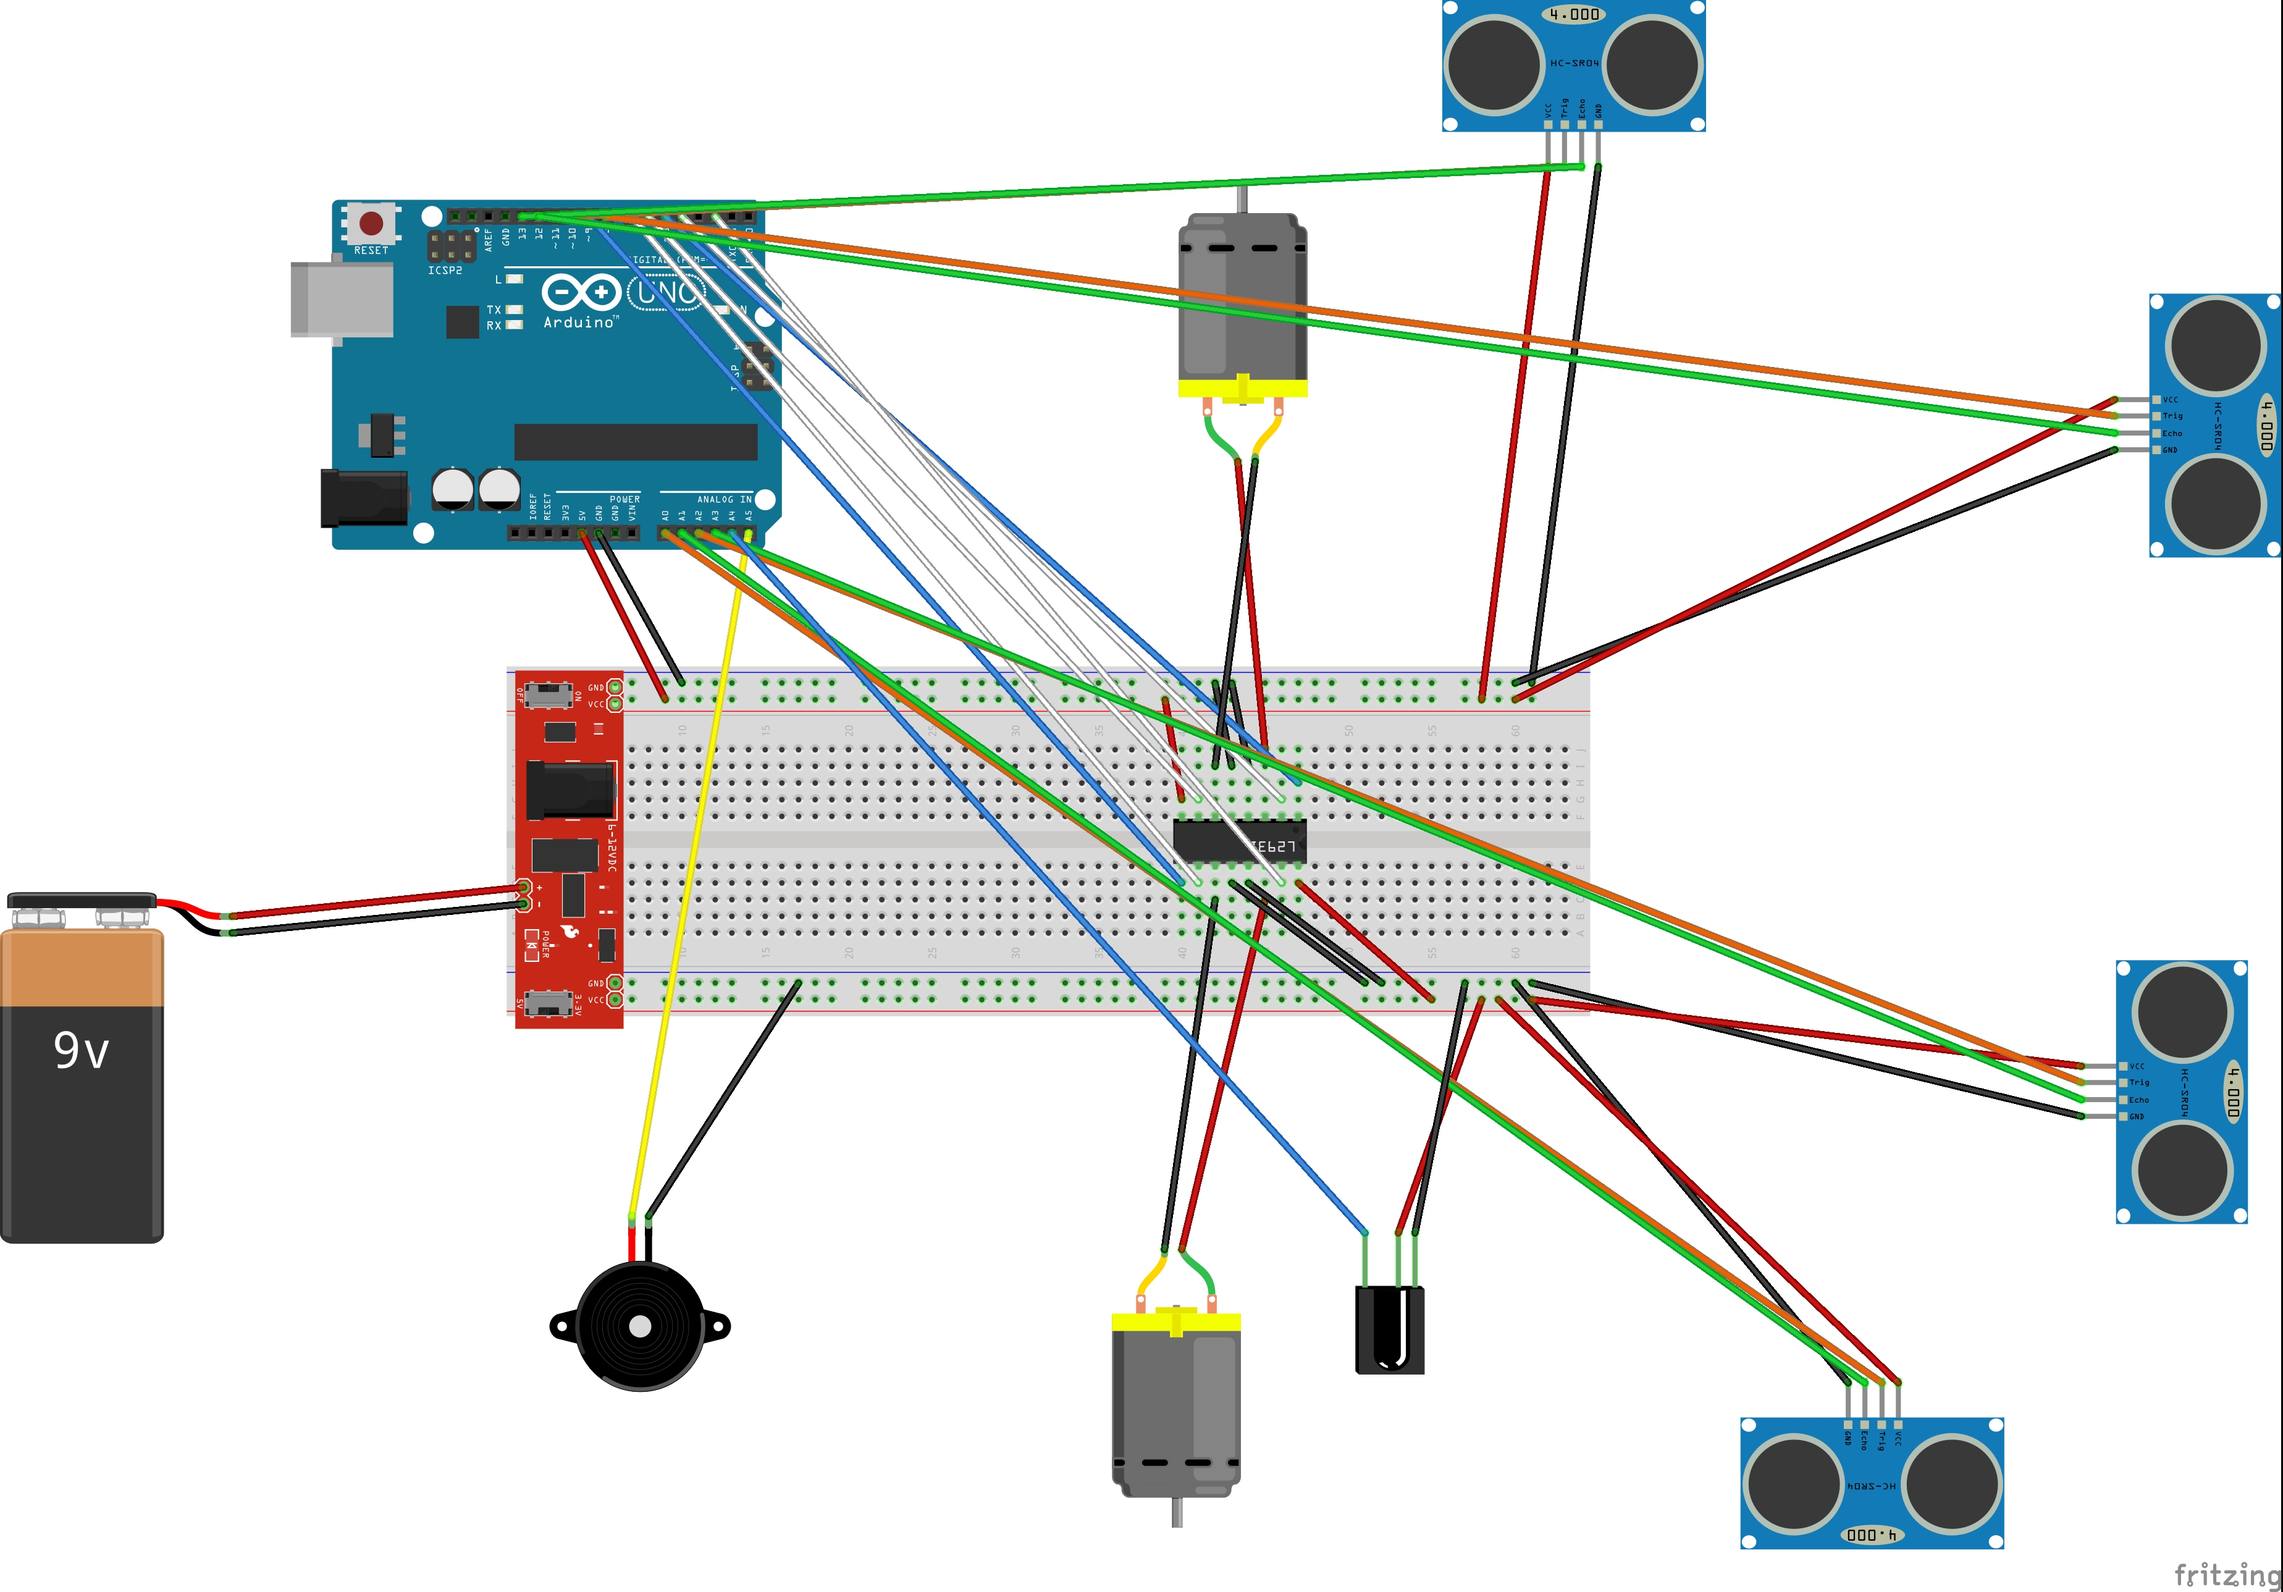
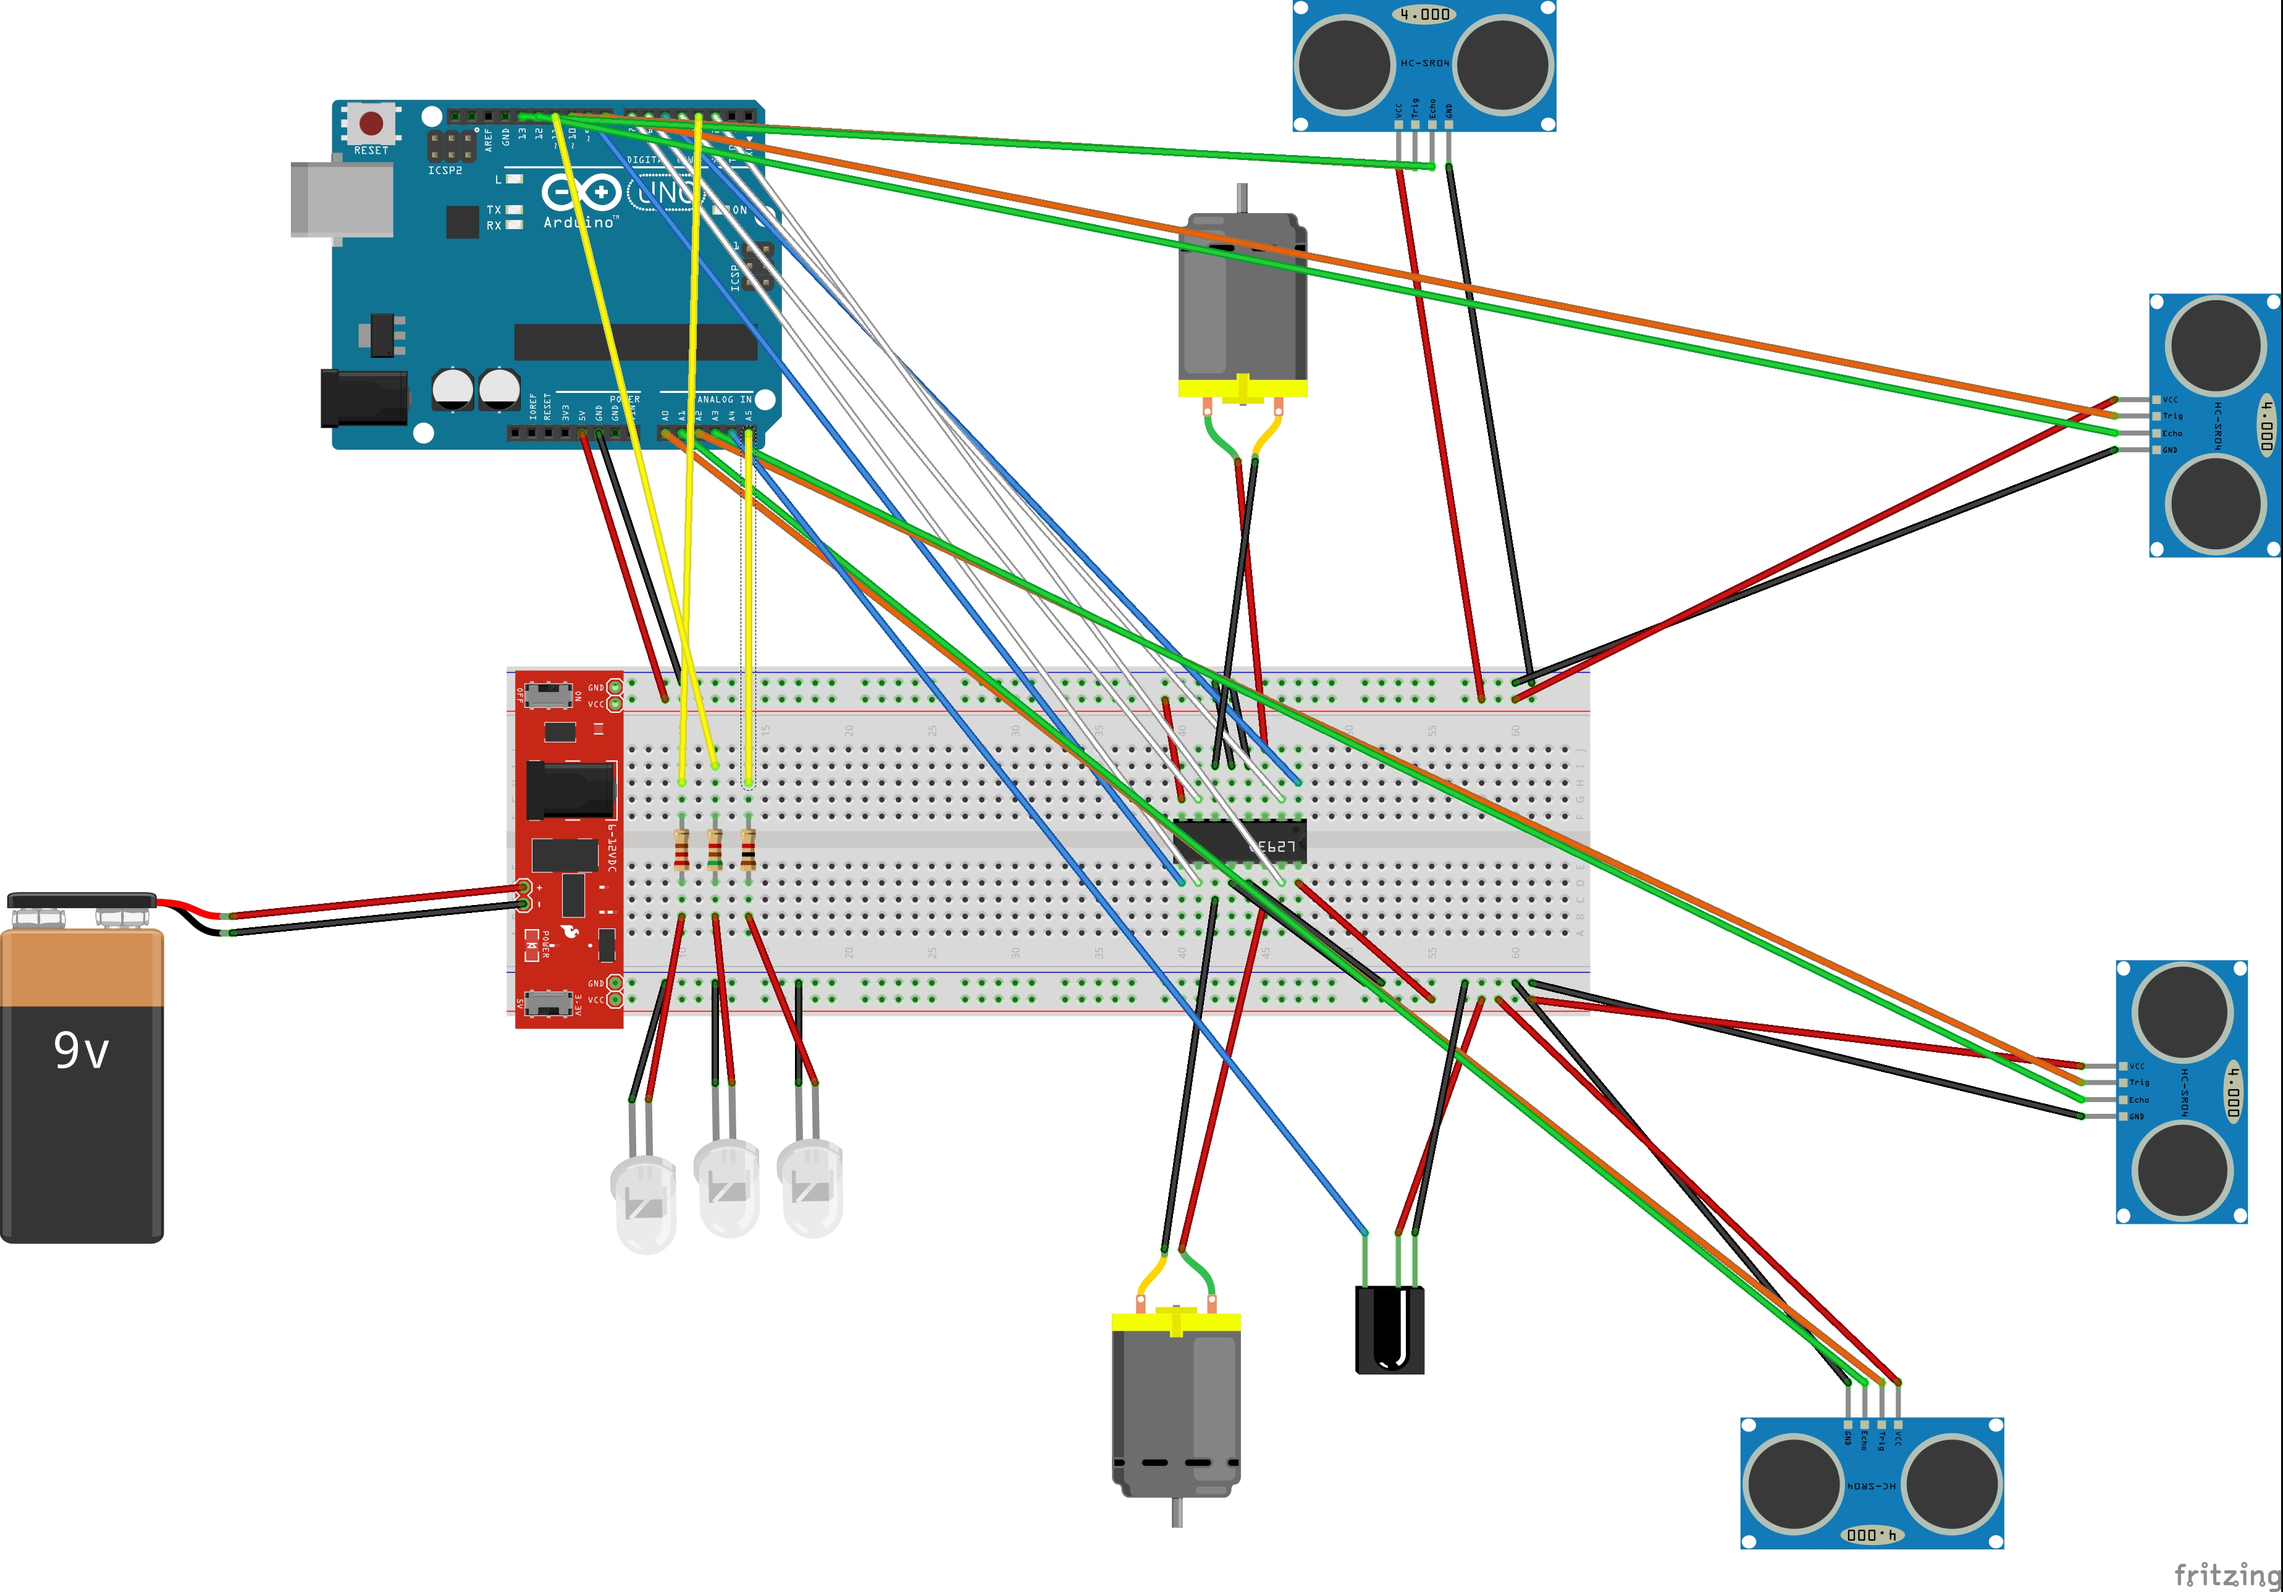
Add images and readme

Changed region(s): [[0.1245, 0.0, 0.9334, 0.8692], [0.529, 0.6519, 0.5601, 0.714], [0.5601, 0.714, 0.5912, 0.7451]]

diff --git a/README.md b/README.md
@@ -10,15 +10,24 @@ Un progetto che realizza con Arduino una 'macchinina', capace di trovare e segui
 - Ponte H: L293D
 - Pila 9V
 - Sensore IR
-- Buzzer
+- 3 LED
+- 3 resistenze (220 &#937;, 1 K&#937;, 5.1 &#937;)
 
 ## Obiettivo
 
-Lo scopo del progetto è di creare una macchinina che tramite i 4 sensori di ultrasuoni (due davanti, uno a sinistra e uno a destra) è capace di rilevare la distanza dal muro e adattare la velocità dei motori in modo tale da raggiungerlo (segnalandolo con il buzzer) e procedere lungo la sua sinistra o destra secondo ciò che preferisce l'utente.
+Lo scopo del progetto è di creare una macchinina capace di ricevere comandi dall'utente tramite un telecomando ed eseguire la funzione associata allo specifico tasto premuto.
 
 ## Funzionamento
 
-TODO
+Tramite il sensore infrarossi viene ricevuto il codice del tasto premuto dall'utente, nel caso sia valido viene eseguita la funzione corrispondente (segnalandolo all'utente tramite i led).
+Le funzioni possibili sono 4:
+
+- __Reach Wall__ (led verde) &rarr; la macchinina si muove in avanti fino a trovare un ostacolo (muro) davanti a se, poi si ferma a qualche centimetro da esso.
+- __Left Wall Follower__ (led blu) &rarr;  viene seguito il muro che è tenuto alla sinistra della macchinina: grazie al sensore ultrasonico di sinistra rileva la distanza dal muro, in funzione di cui adatta la velocità dei motori per avvicinarsi o allontanarsi da esso, e grazie al sensore frontale-sinistro rileva quando si è giunti ad un angolo e quidi effettua una curva di 90° a destra. 
+- __Right Wall Follower__ (led verde e blu) &rarr; funzione identica ma speculare (usa sensore di destra, e curva di 90° a sinistra quando il sensore frontale-destro rileva un ostacolo) a quella precedente.
+- __Joystick__ (led verde, blu e rosso) &rarr; tramite questa funzione è possibile comandare direttamente la direzione dei motori così da muovere la macchinina realizzando di fatto un joystick. I comandi sono: avanti (entrambi i motori in avanti), sinistra (motore destro in avanti, sinistro fermo), destra (motore destro fermo, sinistro in avanti), indietro (entrambi i motori indietro), stop (entrambi i motori fermi).
+
+Inoltre è possibile uscire da qualsiasi di queste "modalità" premendo il tasto corrispondente, che riporta la macchinina nello stato base in cui aspetta il comando dell'utente.
 
 ## Caratteristiche
 
